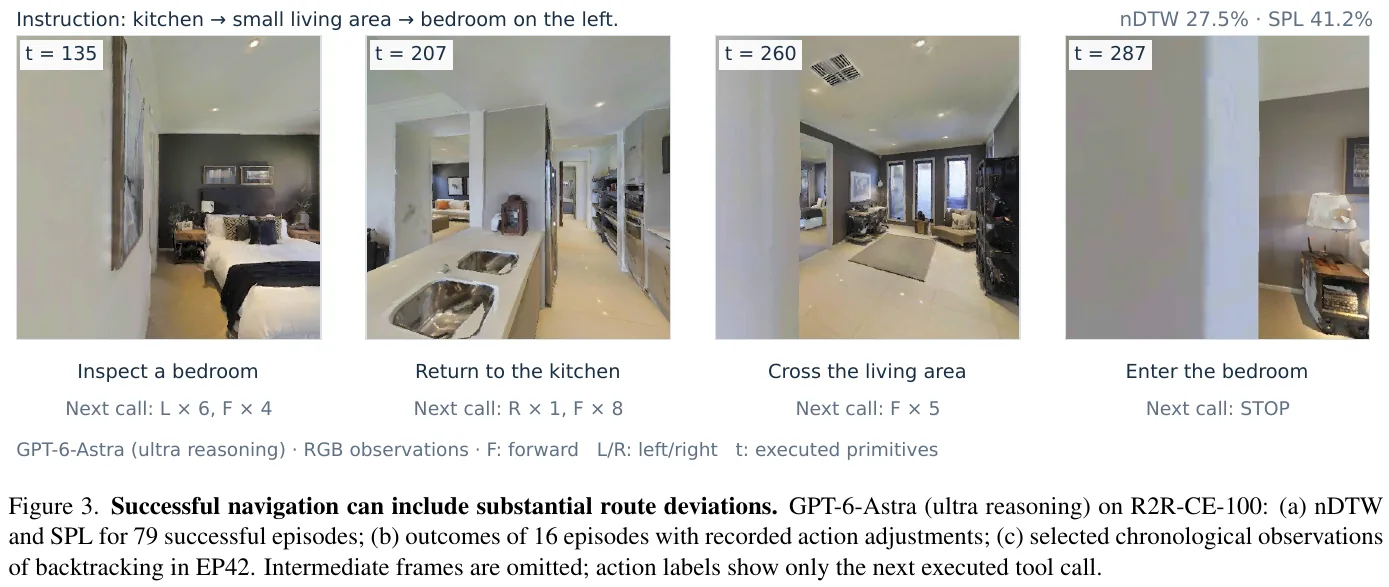
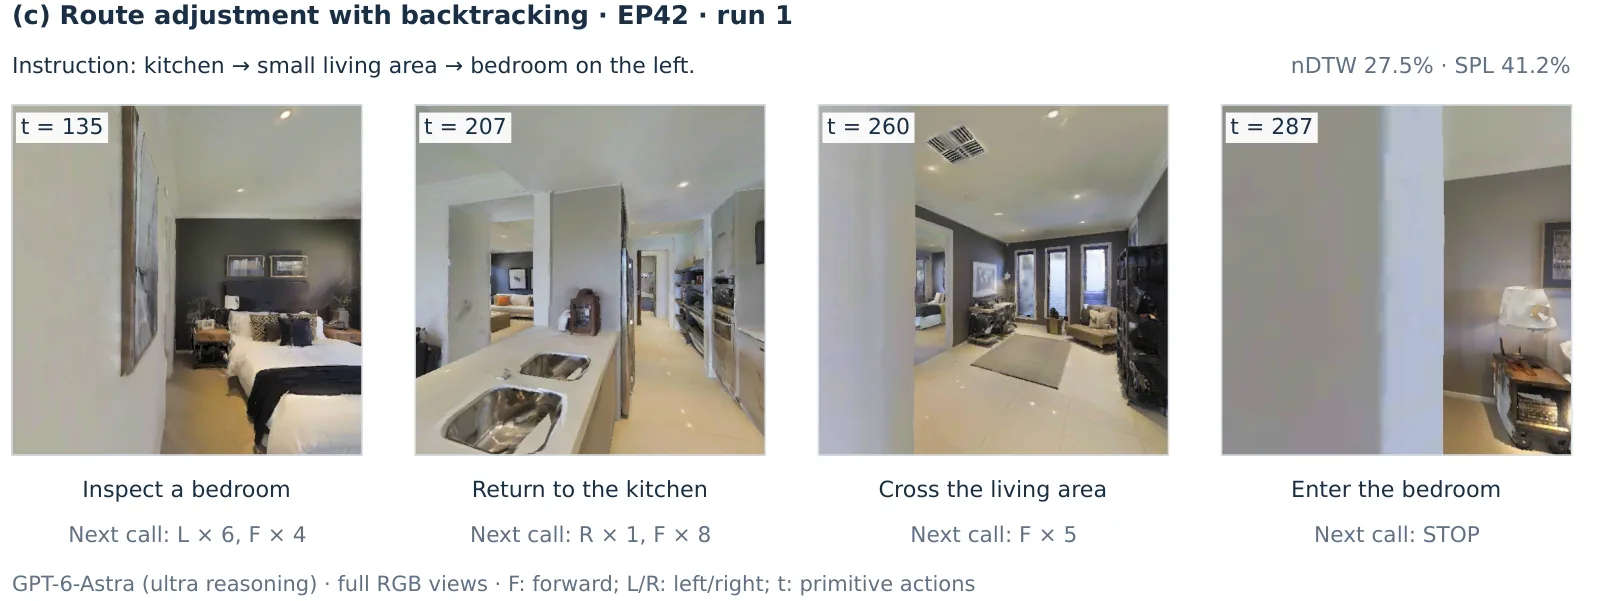
docs(vln-papers): update GPT-6-Astra entry to arXiv v2 (3-run means)
- SR/SPL now 81.3/71.5 (ultra) and 75.7/65.6 (medium); refresh leaderboard rows, notes, refs
- Rewrite results/failure analysis around v2 repeated runs (62 always succeed / 8 always fail / 30 mixed)
- Re-crop v2 figures, add route-following figure; soften v1 "rethink embodied learning" framing
- Add v2 erratum to 2026-09-27 weekly report

diff --git a/_posts/research/2026-01-05-VLN-Papers.md b/_posts/research/2026-01-05-VLN-Papers.md
@@ -30,9 +30,9 @@ excerpt: "本文系统梳理 VLN 指令跟随任务的论文，涵盖 DualVLN、
 
 | 模型 | 年份 | 范式 | 基模 | SR ↑ | SPL ↑ | NE ↓ | OSR ↑ | 开源 |
 |:-----|:----:|:----:|:----:|:----:|:----:|:----:|:----:|:----:|
-| [GPT-6-Astra (单目 · ultra)](#gpt-6-astra) <span class="lb-flag">100 条子集</span> | 2026 | 免训练 | GPT-6-Astra | 79.0 | 69.5 | 3.0 | 82.0 | 否 |
+| [GPT-6-Astra (单目 · ultra)](#gpt-6-astra) <span class="lb-flag">100 条子集</span> | 2026 | 免训练 | GPT-6-Astra | 81.3 | 71.5 | 2.9 | 83.7 | 否 |
 | [Robostral Navigate (单目)](#robostral-navigate) | 2026 | 训练 | Mistral-8B | **77.4** | **74.2** | **3.20** | **81.3** | 否 |
-| [GPT-6-Astra (单目 · medium)](#gpt-6-astra) <span class="lb-flag">100 条子集</span> | 2026 | 免训练 | GPT-6-Astra | 76.0 | 67.9 | 2.7 | 83.0 | 否 |
+| [GPT-6-Astra (单目 · medium)](#gpt-6-astra) <span class="lb-flag">100 条子集</span> | 2026 | 免训练 | GPT-6-Astra | 75.7 | 65.6 | 3.0 | 80.7 | 否 |
 | [Qwen-RobotNav (全景)](#qwen-robotnav) | 2026 | 训练 | Qwen3-VL-8B | 72.1 | 66.6 | 3.53 | 78.5 | 否 |
 | [Talk2Escape + GTA (四视角)](/VLN-Papers-Extended/#talk2escape) <span class="lb-flag">100 条子集</span> | 2026 | 免训练 | Gemini 3.1 Pro | 72.0 | 49.4 | 4.80 | 66.0 | 否 |
 | [ABot-N1 (三相机)](#abot-n1) | 2026 | 训练 | Qwen-3.5-4B + 2B | 70.9 | 67.5 | 3.32 | 75.2 | 否 |
@@ -72,7 +72,7 @@ excerpt: "本文系统梳理 VLN 指令跟随任务的论文，涵盖 DualVLN、
 | [VLN-R1 (单目)](#vln-r1) | 2025 | 训练 | Qwen2-VL-2B | 25.6 | 20.5 | 10.2 | 37.5 | 否 |
 | [OneVLA (单目)](#onevla-a-unified-framework-for-embodied-tasks) | 2026 | 训练 | Qwen2.5-VL-3B | – | – | – | 68.6 | [是](https://github.com/linglingxiansen/OneVLA) |
 
-注：NavFoM 为四视角结果（单视角为 SR 56.2 / SPL 51.2）；DGNav 沿用 ETPNav 的全景 RGB-D 输入；DualVLN 与 StreamVLN 为同口径单视角对比；VLN-Cache 为对 DualVLN 的加速方案，几乎无损（基线 64.3 / 58.5）。 StreamVLN 取 arXiv v2（ICRA 2026 版）的 StreamVLN† 数字（用了 ScaleVLN 子集等额外数据），v1 为 56.9 / 51.9，其他论文作为基线引用的多是 v1 数字。 Qwen-RobotNav 取 arXiv v3：全景行是 8B（底座 Qwen3-VL-8B），单目行是 4B（单目下 4B 的 66.9 高于 8B 的 65.7；8B 单目为 65.7 / 59.6）。灰色的 GPT-6-Astra 与 AgenticNav 三行只在 R2R-CE-100 上评测：这是 Open-Nav 从 val-unseen 中固定抽取的 100 条 episode（覆盖 10 个场景），免训练方法为控制大模型调用成本普遍只报这一子集。1 条 episode 就是 1 个百分点，SR 在 79% 附近时标准误约 4 个点（95% 区间约 71–87），全量 1839 条时约 1 个点；GPT-6-Astra 每档推理强度又只跑一次。这几行按 SR 排在表里、不参与加粗，与全量行的高低只作参考。
+注：NavFoM 为四视角结果（单视角为 SR 56.2 / SPL 51.2）；DGNav 沿用 ETPNav 的全景 RGB-D 输入；DualVLN 与 StreamVLN 为同口径单视角对比；VLN-Cache 为对 DualVLN 的加速方案，几乎无损（基线 64.3 / 58.5）。 StreamVLN 取 arXiv v2（ICRA 2026 版）的 StreamVLN† 数字（用了 ScaleVLN 子集等额外数据），v1 为 56.9 / 51.9，其他论文作为基线引用的多是 v1 数字。 Qwen-RobotNav 取 arXiv v3：全景行是 8B（底座 Qwen3-VL-8B），单目行是 4B（单目下 4B 的 66.9 高于 8B 的 65.7；8B 单目为 65.7 / 59.6）。灰色的 GPT-6-Astra 与 AgenticNav 三行只在 R2R-CE-100 上评测：这是 Open-Nav 从 val-unseen 中固定抽取的 100 条 episode（覆盖 10 个场景），免训练方法为控制大模型调用成本普遍只报这一子集。1 条 episode 就是 1 个百分点，SR 在 81% 附近时标准误约 4 个点（95% 区间约 73–89），全量 1839 条时约 1 个点；GPT-6-Astra 取 arXiv v2 的三次运行均值（v1 为单次 79.0 / 76.0），三次运行的标准差仅 1.5–2.5 个点，只反映运行间波动，不含这 100 个任务本身的抽样误差。这几行按 SR 排在表里、不参与加粗，与全量行的高低只作参考。
 
 ## ② RxR-CE
 
@@ -192,7 +192,7 @@ excerpt: "本文系统梳理 VLN 指令跟随任务的论文，涵盖 DualVLN、
 
 注：VLN-Cache 是套在 DualVLN 上的免训练 Token 缓存层，其余要素随 DualVLN 继承；OmniNav 的 R2R / RxR 评测只走快系统（VLM + 航点回归头），慢系统的前沿探索只用于 OVON，故双系统记 –；Qwen-RobotNav 与上层规划 Agent 的协作只用于 EQA 等长程任务，R2R-CE 成绩来自模型本体；Dual-Anchoring 与 SEDualVLN 的系统 1 均以 StreamVLN 为骨干，继承其滑动窗口 KV 与体素剪枝；HarnessVLN 是表中唯一的免训练方法，其像素 Grounding 指 `ground_target` 工具把子目标落到图像区域后再查深度。ABot-N1 的 30M 预训练样本与 DAgger rollout、Image2Nav 的离散动作输出与在线 DAgger，均依据各自 arXiv 原文补充。
 
-**未计入矩阵的子集成绩**：GPT-6-Astra（ultra 79.0% / medium 76.0%）与 Talk2Escape（+ GTA 72.0% / + NavGPT 64.0%）只在 R2R-CE 的 100 条子集上评测。100 条时 SR 72% 的标准误约 ±4.5 个点（95% 区间约 ±9 个点），68% 的分档线落在误差范围内，又与全量 val-unseen 口径不同，因此只在排行榜里灰显保留，不参与矩阵与下方统计。两者仍有参考价值：GPT-6-Astra 单目 RGB、输出原语离散动作、不做任何导航微调也不调用建图 / 感知 / 规划工具，十个要素一个都没有，说明足够强的通用基础模型可能已覆盖矩阵里不少要素的作用；Talk2Escape 免训练，靠运行时向掌握目标方位与距离的 Oracle 求助纠错，把基座 GTA 从 48.8% 抬到 72.0%，但用到了其他方法没有的目标真值信息。
+**未计入矩阵的子集成绩**：GPT-6-Astra（ultra 81.3% / medium 75.7%，v2 三次运行均值）与 Talk2Escape（+ GTA 72.0% / + NavGPT 64.0%）只在 R2R-CE 的 100 条子集上评测。100 条时 SR 72% 的标准误约 ±4.5 个点（95% 区间约 ±9 个点），68% 的分档线落在误差范围内，又与全量 val-unseen 口径不同，因此只在排行榜里灰显保留，不参与矩阵与下方统计。两者仍有参考价值：GPT-6-Astra 单目 RGB、输出原语离散动作、不做任何导航微调也不调用建图 / 感知 / 规划工具，十个要素一个都没有，说明在这个接口和任务集上，通用基础模型不靠矩阵里的要素也能拿到高 SR。这不等于那些要素没有价值：论文没有逐项拆除要素做对照，闭源模型的训练数据也未知；Talk2Escape 免训练，靠运行时向掌握目标方位与距离的 Oracle 求助纠错，把基座 GTA 从 48.8% 抬到 72.0%，但用到了其他方法没有的目标真值信息。
 
 ## 统计研判
 
@@ -229,7 +229,7 @@ excerpt: "本文系统梳理 VLN 指令跟随任务的论文，涵盖 DualVLN、
    - 但 SR 最高的 Robostral（77.4%）只用单目 RGB，LightNav-0 单目也有 68.5%——视野上的缺口可以用更好的训练与输出接口补回来。
 5. **快慢双系统与 Agentic 不决定 SR 档位**：
    - 快慢双系统并不偏向高分档：第一梯队 3/7（43%），第二梯队 7/15（47%）。它更多服务于部署时延，而不是 SR 本身：ABot-N1 慢系统异步决策、快系统 10Hz 控制；GroundingVLN 只在约 33% 的决策步调用 VLM，其余交给 A\* 规划器。
-   - Agentic 只有 3/22，且都在第二梯队。HarnessVLN 用 GPT-5.5 加一层"派发前校验"的 Harness，以训练无关方式跨过 60%（SR 60.8%），但 SPL 只有 43.5，比同一 SR 段的训练式模型（NavFoM 55.3、GA-VLN 55.2、JanusVLN 56.8）低 11–13 个点。矩阵外同为训练无关的 GPT-6-Astra 只有"看"和"动"两个工具，在 R2R-CE-100 上的 SPL 却有 69.5——训练无关路线的路径效率短板，看来更多取决于基座模型，而不是外围工具链的多少（两者基座与评测集都不同，只作参考）。
+   - Agentic 只有 3/22，且都在第二梯队。HarnessVLN 用 GPT-5.5 加一层"派发前校验"的 Harness，以训练无关方式跨过 60%（SR 60.8%），但 SPL 只有 43.5，比同一 SR 段的训练式模型（NavFoM 55.3、GA-VLN 55.2、JanusVLN 56.8）低 11–13 个点。矩阵外同为训练无关的 GPT-6-Astra 只有"看"和"动"两个工具，在 R2R-CE-100 上的 SPL 却有 71.5（ultra 三次均值；medium 为 65.6）——训练无关路线的路径效率短板，看来更多取决于基座模型，而不是外围工具链的多少（两者基座与评测集都不同，只作参考）。
 6. **DAgger 与上下文压缩已成为入场标配，不再拉开档位**：
    - DAgger / 纠偏数据（50%）与上下文压缩（68%）在两档中都很普遍，第二梯队的 DAgger 采纳率（53%）甚至高于第一梯队（43%）。
    - 上下文压缩的具体形式正在分化：JanusVLN 的初始窗口加滑动窗口 KV、GA-VLN 的 BEV 网格池化（每步约 4000 → 514 Token）、TAMP-Nav 的关键帧锚点加定长 STI Token、LightNav-0 的慢快历史压缩、NavFoM 按遗忘曲线采样历史帧，以及 HarnessVLN 的有界工作记忆加图检索 top-K。
@@ -237,7 +237,7 @@ excerpt: "本文系统梳理 VLN 指令跟随任务的论文，涵盖 DualVLN、
    - 开源率第一梯队反而低于第二梯队（3/7 vs 8/15）：Robostral (77.4%)、Qwen-RobotNav (72.1%)、ABot-N1 (70.9%)、GroundingVLN (69.9%) 截至 2026 年 9 月都没有公开模型代码或权重，ABot-N1 只开源了评测基准。
    - 想在开源代码上复现或做对比，目前最高的起点是 Image2Nav (70.3%)、OmniNav (69.5%) 与 LightNav-0 (68.5%)。
 
-**小结**：从这 22 个条目看，训练式模型冲进 68%+ 的共性是"可度量的输出接口（像素目标 / 连续航点）+ 基于几何量的 RL 后训练"，数据规模与多相机是放大器；快慢双系统、DAgger 与上下文压缩更像是工程上的入场条件。矩阵外的 GPT-6-Astra 在不采用任何上述要素的情况下，在 R2R-CE-100 子集上拿到了最高的 SR——全量 val-unseen 上的同条件结果出来之前，它更适合被读作"通用基础模型的导航能力已逼近专用训练"的信号，而不是新的榜首。
+**小结**：从这 22 个条目看，训练式模型冲进 68%+ 的共性是"可度量的输出接口（像素目标 / 连续航点）+ 基于几何量的 RL 后训练"，数据规模与多相机是放大器；快慢双系统、DAgger 与上下文压缩更像是工程上的入场条件。矩阵外的 GPT-6-Astra 在不采用任何上述要素的情况下，在 R2R-CE-100 子集上拿到了最高的 SR——全量 val-unseen 上的同条件结果出来之前，它更适合被读作"固定接口与任务集下，通用基础模型已具备有竞争力的导航能力"的信号，而不是新的榜首，更不能据此推断通用模型已经解决导航：v2 自己的重复评测里，六次评测仍有 8 个任务始终失败，ultra 每次运行仍有 16–21 个任务失败。
 
 ---
 
@@ -6485,17 +6485,19 @@ $$R_y = \alpha_a R_{act} + \alpha_t R_{task} + \alpha_g R_{goal} + \lambda_g R_{
 ## 49. GPT-6-Astra (2026) {#gpt-6-astra}
 ———通用基础模型只凭单目 RGB 与原语动作，零样本跑通连续环境视觉语言导航
 
-📄 **Paper**: [arXiv:2609.29861](https://arxiv.org/abs/2609.29861) · [Project Page](https://daiguangzhao.github.io/gpt-6-astra-for-vln/)
+📄 **Paper**: [arXiv:2609.29861v2](https://arxiv.org/abs/2609.29861v2) · [Project Page](https://daiguangzhao.github.io/gpt-6-astra-for-vln/)
+
+> 本节依据 v2（2026-09-25）整理。v2 距 v1（2026-09-24）只隔一天，却把每档推理强度的单次运行改成三次运行取均值，并补充了跨运行的一致性分析；v1 的 79.0% / 76.0% 是单次结果，现已被 81.3% / 75.7% 取代。
 
 ---
 
 ### 精华
 
 - 把"看"也做成模型自己决定何时调用的工具——`observe()` 不耗步数，`step()` 执行完不回传图像——接口只剩"看"和"动"两个动词，测出来的就是基础模型本身的导航能力，而不是外围模块的能力。
-- 面对足够强的基础模型，航点预测器、全景、深度、预建图这些"脚手架"可能从助力变成上限：单目 RGB 加 0.25 m / 15° 的原语动作，在 R2R-CE-100 上拿到 79.0% SR、69.5% SPL，高于 Table 1 中所有零样本与训练式方法的报告值（评测子集不同，需谨慎看待）。
-- 只看 SR 会漏掉三类问题：OSR 与 SR 之差（3 个 episode 进过目标圈却停错位置）、低 nDTW 的成功（EP42 绕了约 2.4 倍路程才到达）、像素不变的"空走"（EP176 连走 8 步画面没变），分别对应停止判断、路线遵循和执行确认。
-- 推理强度从 medium 提到 ultra，SR 的 +3 个点是 9 个任务翻盘、6 个任务翻车相抵后的净值，另有 15 个任务两档都失败——多想一会儿改变的是个别 episode 的结局，没有系统性修好执行与终点验证。
-- 对 VLN 研究的启发：导航专用的训练、记忆与动作控制，应该用"修好了基础模型哪一类剩余失败"来证明自身价值，而不是重复基础模型已有的能力。
+- 拿掉航点预测器、全景、深度、预建图这些"脚手架"之后，单目 RGB 加 0.25 m / 15° 的原语动作，在 R2R-CE-100 上三次运行均值仍达到 SR 81.3±2.5%、SPL 71.5±1.7%（ultra），SR 高于 Table 1 中所有零样本与训练式方法的报告值（评测子集不同，需谨慎看待）。这只是同一接口、固定任务集下的结果，论文据此提出的是"通用能力与导航专用能力如何组合"，并没有证明脚手架多余。
+- 只看 SR 会漏掉三类问题：OSR 与 SR 之差（每次运行有 1–3 个 episode 进过目标圈却停错位置）、低 nDTW 的成功（EP42 绕了约 2.4 倍路程才到达；三次运行的成功轨迹里约 9% 的 nDTW 低于 50%）、像素不变的"空走"（EP176 连走 8 步画面没变），分别对应停止判断、路线遵循和执行确认。
+- 多次运行把"任务本身难"和"运行间抖动"分开了：medium、ultra 各跑三次，100 个任务里 62 个六次全成功、8 个六次全失败、30 个时好时坏。ultra 的 SR 均值比 medium 高 5.7 个点，但 medium 全败的 14 个任务里只有 6 个在 ultra 下至少成功一次，另有 3 个 medium 全成功的任务在 ultra 下失败过一次——多想一会儿改变的是个别任务的结局，没有系统性修好执行与终点验证。
+- 对 VLN 研究的启发：论文（v2）主张研究哪些导航能力通用模型可以直接提供、哪些地方需要导航专用学习来补，并提出空间表示、导航经验、习得的控制技能三个方向，但明确说这些方向只是动机，并未被评测。笔者的推断：导航专用组件的价值，宜用"修好了基础模型哪一类可测量的剩余失败"（路线偏离、无效动作、错误停止）来衡量。
 
 ---
 
@@ -6568,7 +6570,7 @@ graph TD
 
 - **数据**：R2R-CE-100，即 Open-Nav 引入的 100 个 val-unseen episode，覆盖 10 个场景，与 EvoNav、Open-Nav、SmartWay 等零样本工作采用同一协议；Table 1 中训练式方法的数字则来自全量 val-unseen
 - **预算**：每个 episode 最多 500 个原语动作、2,400 s，调用 STOP 或任一预算耗尽即结束
-- **运行次数**：每档推理强度、每个 episode 只跑一次
+- **运行次数**：每档推理强度各跑三次，Table 1 与 Table 2 报均值 ± 样本标准差；三次运行被视为对同一批任务的重复观测（v1 为单次运行）
 - **成功判定**：显式调用 STOP，且终点到目标的测地距离小于 3 m
 
 **评测指标**
@@ -6590,14 +6592,15 @@ $$\text{nDTW}(R, Q) = \exp\left(-\frac{\mathrm{DTW}(R, Q)}{\lvert R \rvert \cdot
 
 其中 $d_{th}$ 取成功半径 3 m。
 
-> **举个例子**：ultra 设置下 100 个 episode 里，79 个成功，3 个轨迹曾进入 3 m 目标圈但最终停在圈外，18 个从未进过目标圈。于是 SR = 79%，OSR = (79 + 3) / 100 = 82%，正好对上 Table 1 的 82.0——OSR 与 SR 之间这 3 个点，就是"路过了却没停对"。再看成功的 EP42：终点误差只有 0.7 m，照样记为成功；但 SPL 41.2% 意味着实际路程约为最短路径的 1 / 0.412 ≈ 2.4 倍，nDTW 27.5% 说明轨迹和参考路线几乎不贴合——它先走进了卧室，发现顺序不对，又折回厨房重新出发。
+> **举个例子**：ultra 第 1 次运行的 100 个 episode 里，79 个成功，3 个轨迹曾进入 3 m 目标圈但最终停在圈外，18 个从未进过目标圈。于是 SR = 79%，OSR = (79 + 3) / 100 = 82%——OSR 与 SR 之间这 3 个点，就是"路过了却没停对"。三次运行分别是 79 / 81 / 84 个成功、3 / 3 / 1 个进圈失败，均值因此是 SR 81.3、OSR 83.7，对上 Table 1。再看成功的 EP42（第 1 次运行）：终点误差只有 0.7 m，照样记为成功；但 SPL 41.2% 意味着实际路程约为最短路径的 1 / 0.412 ≈ 2.4 倍，nDTW 27.5% 说明轨迹和参考路线几乎不贴合——它先走进了卧室，发现顺序不对，又折回厨房重新出发。
 
 **行为分析框架**
 
-聚合指标之外，作者逐条检查 ultra 设置的交互日志（工具调用、实际执行的动作与对应的 RGB 画面），按两组问题组织分析：
+聚合指标之外，作者逐条检查三次 ultra 运行的交互日志（工具调用、实际执行的动作与对应的 RGB 画面），按三组问题组织分析：
 
 - **能力侧**：如何落地空间指代（4.1）、到达目标是否等于按路线走（4.2）、如何调整动作（4.3）
-- **失败侧**：路线遵循在哪里断掉（5.1）、能否从执行困难中恢复（5.2）、能否在正确位置停下（5.3）、提高推理强度能否解决失败（5.4）
+- **失败侧**：路线遵循在哪里断掉（5.1）、能否从执行困难中恢复（5.2）、能否在正确位置停下（5.3）
+- **稳定性侧**：同一任务在六次评测（medium × 3 + ultra × 3）里成功几次，区分"持续失败"与"运行间抖动"，并回答提高推理强度能否解决失败（5.4）
 
 作者也强调，日志只能支撑对"可观察行为"的分析，既不能确认单个语义判断是否正确，也看不到模型的内部推理。
 
@@ -6605,14 +6608,14 @@ $$\text{nDTW}(R, Q) = \exp\left(-\frac{\mathrm{DTW}(R, Q)}{\lvert R \rvert \cdot
 
 ### 3. 核心结果/发现
 
-**主结果：单目 RGB、零样本，SR 与 SPL 均为论文 Table 1 中最高**
+**主结果：单目 RGB、零样本，ultra 的 SR、SPL、OSR、NE 均为论文 Table 1 中最优**
 
 <div align="center">
   <img src="/images/vln/GPT-6-Astra-sr-comparison.webp" width="100%" loading="lazy" decoding="async" style="aspect-ratio:1394/625" />
-<figcaption>R2R-CE 上的 SR 对比：左为零样本方法，ultra 比最佳零样本 SpatialAnt（66.0%，全景 + 预探索建图）高 13.0 个点；右为训练式方法（全量 val-unseen），比 Qwen-RobotNav（72.1%，全景 + 1560 万混合来源样本）高 6.9 个点。评测子集与设置不一，作者注明比较并不严格公平</figcaption>
+<figcaption>R2R-CE 上的 SR 对比（v2，三次运行均值）：左为零样本方法，ultra（81.3%）比最佳零样本 SpatialAnt（66.0%，全景 + 预探索建图）高 15.3 个点；右为训练式方法（全量 val-unseen），比 Qwen-RobotNav（72.1%，全景 + 1560 万混合来源样本）高 9.2 个点；蓝柱为 medium（75.7%）。评测子集与设置不一，作者注明比较并不严格公平</figcaption>
 </div>
 
-从 Table 1 摘取的代表性行（NE 单位为米，其余为百分比）：
+从 Table 1 摘取的代表性行（NE 单位为米，其余为百分比；GPT-6-Astra 两行为三次运行的均值 ± 样本标准差）：
 
 | 方法 | 类型 | 评测集 | 视角 | NE↓ | OSR↑ | SR↑ | SPL↑ |
 |---|---|---|---|---|---|---|---|
@@ -6624,70 +6627,77 @@ $$\text{nDTW}(R, Q) = \exp\left(-\frac{\mathrm{DTW}(R, Q)}{\lvert R \rvert \cdot
 | Qwen-RobotNav-8B | 训练式 | Full | 单目 | 4.4 | 72.7 | 65.7 | 59.6 |
 | OmniNav | 训练式 | Full | 全景 | 3.7 | 74.6 | 69.5 | 66.1 |
 | Qwen-RobotNav-8B | 训练式 | Full | 全景 | 3.5 | 78.5 | 72.1 | 66.6 |
-| **GPT-6-Astra（medium）** | 零样本 | R2R-CE-100 | 单目 | **2.7** | **83.0** | 76.0 | 67.9 |
-| **GPT-6-Astra（ultra）** | 零样本 | R2R-CE-100 | 单目 | 3.0 | 82.0 | **79.0** | **69.5** |
+| **GPT-6-Astra（medium）** | 零样本 | R2R-CE-100 | 单目 | 3.0±0.4 | 80.7±2.1 | 75.7±1.5 | 65.6±2.1 |
+| **GPT-6-Astra（ultra）** | 零样本 | R2R-CE-100 | 单目 | **2.9±0.2** | **83.7±1.5** | **81.3±2.5** | **71.5±1.7** |
 
 - 在同为单目 RGB 的零样本方法中，此前最好的 GC-VLN 只有 33.6% SR / 16.3% SPL，GPT-6-Astra 的 SR 高出一倍以上
-- NE 2.7–3.0 m 是 Table 1 中最低，比其中最强的训练式模型 Qwen-RobotNav-8B（全景，3.5 m）还低；SPL 69.5 同样高于 Table 1 中所有训练式方法。但 Table 1 未收录 Robostral Navigate：它在全量 val-unseen 上以单目 RGB 取得 77.4% SR、74.2 SPL，SPL 高于 GPT-6-Astra 的 69.5（NE 3.20 m 则不如 GPT-6-Astra 的 2.7–3.0 m）
-- ultra 相比 medium 的 SR 与 SPL 更高，但 OSR 略低、NE 略高
+- ultra 的 NE 2.9 m 是 Table 1 中最低，比其中最强的训练式模型 Qwen-RobotNav-8B（全景，3.5 m）还低；SPL 方面只有 ultra（71.5）高于 Table 1 中所有训练式方法，medium 的 65.6 低于 Qwen-RobotNav-8B 全景（66.6）和 OmniNav（66.1）。Table 1 未收录 Robostral Navigate：它在全量 val-unseen 上以单目 RGB 取得 77.4% SR、74.2 SPL，SR 高于 medium 的 75.7、SPL 高于 ultra 的 71.5（NE 3.20 m 则不如 ultra 的 2.9 m）
+- ultra 相比 medium：SR +5.7、SPL +5.9（论文按取整前的数值计算），OSR 83.7 对 80.7，nDTW 74.0 对 70.5，NE 2.9 对 3.0 m。两档的标准差在 1.5–2.5 个点之间，论文将其定位为对两种配置的描述性比较
 - 作者反复提醒：训练式方法用全量 val-unseen，SpatialAnt 用作者自采样的 episode 并借助场景重建与模拟器深度，HarnessVLN 未注明子集，这些对比只说明竞争力，不构成同条件下的优劣结论
 
-**空间指代：序数式比地标相对式更稳**
+**空间指代：序数式比地标相对式更稳（但任务数少、波动大）**
 
 | 指令子集 | N | SR | SPL | nDTW |
 |---|---|---|---|---|
-| R2R-CE-100（全部） | 100 | 79.0 | 69.5 | 73.3 |
-| 序数式选择（"第二个房间""最右边的门"） | 14 | 85.7 | 68.6 | 73.4 |
-| 地标相对式选择（"在……左边""在……之间""在……后面"） | 13 | 61.5 | 59.6 | 71.8 |
+| R2R-CE-100（全部） | 100 | 81.3±2.5 | 71.5±1.7 | 74.0±1.2 |
+| 序数式选择（"第二个房间""最右边的门"） | 14 | 95.2±8.2 | 77.3±8.2 | 75.9±3.2 |
+| 地标相对式选择（"在……左边""在……之间""在……后面"） | 13 | 74.4±11.8 | 69.0±8.1 | 73.9±2.0 |
 
-EP218 中模型离开卧室后，先在交互日志里把一间浴室认作"左手第一个房间"，再走向下一个门口；EP244 中它选中了"白色双开门左边"的门洞，两例都成功（NE 分别为 2.6 m、1.8 m）。作者注明这里是整条任务的成绩，不是单个空间关系判断的准确率，且两个子集的场景布局与难度也不同。
+（均值 ± 三次运行的样本标准差，ultra 设置。）EP218 中模型离开卧室后，先在交互日志里把一间浴室认作"左手第一个房间"，再走向下一个门口；EP244 中它选中了"白色双开门左边"的门洞，两例在六次评测（两档推理强度 × 三次）里全部成功，第 1 次 ultra 运行的 NE 分别为 2.6 m、1.8 m。作者注明这里是整条任务的成绩，不是单个空间关系判断的准确率；两个子集可能重叠、场景布局与难度也不同，且只有 14 和 13 个任务，标准差本身就有 8–12 个点，差距不宜直接归因于"空间关系难度"。
 
 **到达 ≠ 按路线走**
 
-- 79 个成功 episode 的 nDTW 中位数为 90.4%，多数紧贴参考路线；但有 8 个（10.1%）低于 50%。EP116 终点误差 0.1 m、nDTW 89.2%，是贴线的典型；EP42 则是大幅绕路后的成功
-- 日志中有 16 个 episode 记录到明显的路线偏离或通行困难后的动作调整：10 个成功、6 个失败，成功者的 nDTW 与 SPL 中位数仅 44.3% 与 45.5%。这只统计了有记录的调整，不能说明调整本身对成败的因果作用
+- 三次 ultra 运行共 244 条成功轨迹（79 + 81 + 84，是对同一批任务的重复观测，不是 244 个不同任务），nDTW 中位数在 90.3%–91.0% 之间，多数紧贴参考路线；但每次仍有 8、7、7 条低于 50%，占成功轨迹的 9.0±1.0%。EP116 终点误差 0.1 m、nDTW 89.2%，是贴线的典型；EP42 则是大幅绕路后的成功
+- 日志中每次运行有 16、16、12 条轨迹记录到明显的路线偏离或通行困难后的动作调整，其中 10、6、7 条成功；这些成功轨迹的 SPL 中位数只有 45.5%、30.3%、35.6%，nDTW 中位数在 8.9%–44.3%。这只统计了有记录的调整，且分数覆盖包含折返在内的完整轨迹，不能说明调整本身对成败的因果作用
 
 <div align="center">
-  <img src="/images/vln/GPT-6-Astra-EP42-backtracking.webp" width="100%" loading="lazy" decoding="async" style="aspect-ratio:1389/587" />
+  <img src="/images/vln/GPT-6-Astra-route-following.webp" width="100%" loading="lazy" decoding="async" style="aspect-ratio:1598/557" />
+<figcaption>三次 ultra 运行的路线贴合度：(a) 成功轨迹的 nDTW–SPL 散点，图例括号内为各次运行的成功数 79 / 81 / 84；(b) 记录到路线或动作调整的轨迹数及其成败，右侧为成功者的 SPL 中位数</figcaption>
+</div>
+
+<div align="center">
+  <img src="/images/vln/GPT-6-Astra-EP42-backtracking.webp" width="100%" loading="lazy" decoding="async" style="aspect-ratio:1598/601" />
 <figcaption>EP42 的折返过程（指令：厨房 → 小客厅 → 左手卧室）：t=135 模型发现自己进了卧室、与"厨房—客厅—卧室"的顺序不符，于是左转后折回厨房，穿过客厅，最终进入正确的卧室并 STOP；成功，但 nDTW 仅 27.5%、SPL 41.2%。t 为已执行的原语动作数</figcaption>
 </div>
 
 **失败模式：路线、执行、停止三类**
 
 <div align="center">
-  <img src="/images/vln/GPT-6-Astra-failures.webp" width="90%" loading="lazy" decoding="async" style="aspect-ratio:1398/1008" />
-<figcaption>执行与终点验证失败：(a) ultra 设置下 79 个成功、3 个进过目标圈但停错、18 个从未进圈；(b) EP176 连续 8 次前进后 RGB 画面完全不变，最终耗尽 500 步预算、NE 35.4 m；(c) EP1133 在两档推理强度下都停在拱门附近而失败，ultra 的 NE 更小（5.6 m 对 7.5 m）但仍超出 3 m</figcaption>
+  <img src="/images/vln/GPT-6-Astra-failures.webp" width="90%" loading="lazy" decoding="async" style="aspect-ratio:1598/1234" />
+<figcaption>重复评测区分持续失败与运行波动：(a) 三次 ultra 运行的结局（成功 79 / 81 / 84，进过目标圈但停错 3 / 3 / 1，从未进圈 18 / 16 / 15）；(b) 同一批 100 个任务在 medium 与 ultra 下各自的成功次数分布，62 个六次全成功、8 个六次全失败；(c) EP176 连续 8 次前进后 RGB 画面完全不变，最终耗尽 500 步预算、NE 35.4 m；(d) EP1133 在六次评测中全部失败，停在拱门附近，NE 在 5.6–12.3 m 间波动，始终超出 3 m</figcaption>
 </div>
 
-- **路线遵循断裂**：ultra 的 21 个失败中，13 个终点离目标至少 5 m，其中 7 个超过 10 m。EP513 的指令提到壁炉客厅、两张白沙发和相邻餐厅入口，模型最后看到壁炉和浅色座椅就宣布到达，NE 却有 14.5 m——局部地标对上了，不代表到了指令说的那个地方，而日志也定位不到第一处走错的位置
-- **执行困难与恢复**：4 个 episode 里共有 5 批纯前进动作，执行前后的 RGB 逐像素相同（没有可见位移，但不等于测到了碰撞），其中 3 个 episode 最终仍然成功；EP70 在窄门附近经过转向与前进后进入下一个房间并成功；EP176 则在 8 次前进画面不变之后一直耗到 500 步预算，终点距目标 35.4 m。发出动作不等于真的动了，也不等于有效恢复
-- **停止判断**：99 个 episode 由模型主动 STOP，只有 EP176 触到动作上限；3 个失败 episode 的 OSR 为 1，即曾进入目标圈又离开。EP705 中模型报告在门口旁看到灭火器后停下，最终 NE 为 12.3 m
+- **路线遵循断裂**：每次 ultra 运行里，有 10–13 个失败的终点离目标至少 5 m，其中 5–8 个超过 10 m，说明剩下的错误多是大幅偏离，而不是差一点。EP513 的指令提到壁炉客厅、两张白沙发和相邻餐厅入口，第 1 次运行里模型最后看到壁炉和浅色座椅就宣布到达，NE 却有 14.5 m；另外两次 ultra 运行里它成功了——局部地标对上了，不代表到了指令说的那个地方，这是一次执行的失败，而不是该任务做不到，日志也定位不到第一处走错的位置
+- **执行困难与恢复**：在 1,103 个两端都有可读观测的动作批次里，三次 ultra 运行共有 11 批纯前进动作、分布在 10 条轨迹中，执行前后的 RGB 逐像素相同（没有可见位移，但不等于测到了碰撞），其中 6 条轨迹最终仍然成功；EP70 在窄门附近经过转向与前进后进入下一个房间并成功；EP176 在 8 次前进画面不变之后一直耗到 500 步预算，终点距目标 35.4 m，它在 ultra 的三次运行里都失败，却在 medium 的两次运行里成功，可见问题是执行与恢复不稳定，而不是任务走不通。发出动作不等于真的动了，也不等于有效恢复
+- **停止判断**：每次 ultra 运行有 96–99 条轨迹由模型主动 STOP，每次都有 1–3 条失败轨迹曾进入成功半径又离开。EP705 第 1 次运行中模型报告在门口旁看到灭火器后停下，最终 NE 为 12.3 m，其余两次 ultra 运行里同一任务成功
 
 **提高推理强度能解决多少失败？**
 
-把两档推理强度在同一批 100 个任务上的结局交叉起来（由正文数字推出：medium 失败 24 个，其中 9 个在 ultra 下成功、15 个仍失败；另有 6 个 medium 成功的任务在 ultra 下失败）：
+把 medium 与 ultra 各三次运行在同一批 100 个任务上的成功次数交叉起来（论文 Figure 4b）：
 
-| | ultra 成功 | ultra 失败 | 合计 |
-|---|---|---|---|
-| **medium 成功** | 70 | 6 | 76 |
-| **medium 失败** | 9 | 15 | 24 |
-| **合计** | 79 | 21 | 100 |
+| ultra 成功次数 ＼ medium 成功次数 | 0 | 1 | 2 | 3 |
+|---|---|---|---|---|
+| **3** | 0 | 2 | 7 | **62** |
+| **2** | 2 | 4 | 3 | 3 |
+| **1** | 4 | 3 | 0 | 0 |
+| **0** | **8** | 1 | 1 | 0 |
 
-> **怎么读这张表**：SR 从 76 升到 79，不是"ultra 多修好 3 个任务"，而是 9 个翻盘减去 6 个翻车。只看这 15 个结局改变的任务，9 对 6 按精确二项检验（McNemar）的双侧 p 约为 0.61（笔者据表中计数计算，非论文报告），远谈不上显著。
+> **怎么读这张表**：右上角 62 个任务六次评测全部成功，左下角 8 个任务六次全部失败，其余 30 个任务时好时坏。这比"两档各跑一次"的交叉表多出一层信息：单次运行里的"翻盘"或"翻车"，有一部分只是同一个任务在不同次运行里的正常波动。
 
-- 15 个两档都失败的任务里，ultra 的 NE 更低的有 8 个、更高的有 7 个，没有一致的改善方向；EP1133 两档都在拱门附近停下，NE 从 7.5 m 降到 5.6 m，仍未进入 3 m 圈
-- 两档运行所用的 Codex 版本也不同（medium 为 0.155.1，ultra 为 0.155.0），因此这组对比无法把差异单独归因于推理强度
+- medium 三次全败的 14 个任务（第一列）中，6 个在 ultra 下至少成功一次，8 个仍然全败；反过来，medium 三次全成功的任务里，有 3 个在 ultra 的某一次运行里失败。更高的推理强度并不保证可靠完成，论文也明确说这些观察不能说明每个持续失败的原因
+- EP1133 是那 8 个六次全败的任务之一：medium 的终点 NE 在 7.5–11.4 m，ultra 在 5.6–12.3 m，某一次 NE 更小不能当作稳定改善
 
 **作者对后续 VLN 研究的建议**
 
-- 通用模型经一个极简的"观察—动作"接口就能完成有竞争力的导航，说明这未必需要单独训练导航策略，但何时这条路线优于专门训练，还需在观测、动作预算与任务集都对齐的条件下比较
-- 后续方法应优先补三块短板：地标重复出现时守住路线约束、识别无效运动并恢复、确认终点确实满足指令；评估时应把参考路径贴合度、执行反馈与停止结局和 SR 一起报告
+- 通用模型经一个极简的"观察—动作"接口就能完成有竞争力的导航，值得研究的是：哪些能力通用模型可以直接提供，哪些地方需要导航专用学习来补；论文称如何在通用模型与专用方法之间分工，仍是一个经验问题
+- 可能的补法有三类：空间表示（把当前观测与走过的地方、已完成的指令步骤对上，帮助进度跟踪与终点验证）、导航经验（推理时利用轨迹或示范，帮助选路与纠错）、习得的控制技能（高效的移动与恢复例程）；这些补充都应保留模型自行观察、自行调整路线的灵活性。论文自己强调，这些方向只是动机，并未被评测
+- 后续评测应固定模型、任务、观测、原语动作与预算，披露任何额外信息，做组件消融与多次运行，并把任务成功、路径效率、参考路径贴合度与进度跟踪、恢复、停止行为一起报告，同时给出推理成本与延迟，再到更多环境、指令长度和布局上检验迁移
 
 ---
 
 ### 4. 局限性
 
-只在 R2R-CE-100（100 个 episode、10 个场景）上每档跑一次，与全量 val-unseen 上的训练式方法、Author-sampled 的 SpatialAnt 并非同条件对比；按二项分布粗算，100 个 episode 上 79% SR 的标准误约 4.1 个百分点，领先 Qwen-RobotNav 的 6.9 个点还不到两个标准误。GPT-6-Astra 是闭源模型，无法排除其训练数据含导航数据，推理成本与延迟目前也制约实际部署；作者计划补充多次运行的均值与标准差，并扩展到 RxR-CE、NavRAG-CE。
+只在 R2R-CE-100（100 个 episode、10 个场景）上评测，每档三次运行；v2 补上的多次运行说明了同一任务集上的可重复性，但不说明泛化。它与全量 val-unseen 上的训练式方法、Author-sampled 的 SpatialAnt 仍非同条件对比；三次运行的标准差（ultra 为 2.5 个点）只反映运行间波动，这 100 个任务本身的抽样误差还在：笔者按二项分布粗算，81.3% SR 的标准误约 3.9 个百分点，领先 Qwen-RobotNav 的 9.2 个点约为 2.4 倍标准误，比 v1 的情形宽裕，但仍不是同集结论。GPT-6-Astra 是闭源模型，无法排除其训练数据含导航数据——论文明确说，"零样本"只表示作者没有为导航微调，不表示模型没见过导航数据；推理成本与延迟目前也制约实际部署。作者计划扩展到 RxR-CE、NavRAG-CE 等数据集与更多环境、指令。
 
 ---
 
@@ -7651,7 +7661,7 @@ graph TD
 46. **Uncertainty-Aware Gaussian Map for VLN** (2026). 三类感知不确定性 × Semantic Gaussian Map，赋予 VLN 智能体可靠决策能力. arXiv: [2607.13500](https://arxiv.org/abs/2607.13500) · ICLR 2026 · Code（待发布）: [Gaozzzz/Uncertainty-Aware-VLN](https://github.com/Gaozzzz/Uncertainty-Aware-VLN)
 47. **HarnessVLN** (2026). 一套 Agent Harness，把"指令跟随"和"找物体"两类导航压进同一个工具调用协议. arXiv: [2609.15195](https://arxiv.org/abs/2609.15195)
 48. **GroundingVLN** (2026). 把视觉 grounding 做成"想"与"走"之间的共享接口. arXiv: [2609.18581](https://arxiv.org/abs/2609.18581)
-49. **GPT-6-Astra** (2026). 通用基础模型只凭单目 RGB 与原语动作，零样本跑通连续环境视觉语言导航. arXiv: [2609.29861](https://arxiv.org/abs/2609.29861)
+49. **GPT-6-Astra** (2026). 通用基础模型只凭单目 RGB 与原语动作，零样本跑通连续环境视觉语言导航. arXiv: [2609.29861v2](https://arxiv.org/abs/2609.29861v2)
 50. **BudVLN** (2026). Nipping the Drift in the Bud: Retrospective Rectification for Robust Vision-Language Navigation. arXiv: [2602.06356](https://arxiv.org/abs/2602.06356)
 51. **Route2Step** (2026). 解耦语义进度与局部执行，通过显式步级接口赋能具身导航纠偏. arXiv: [2608.03143](https://arxiv.org/abs/2608.03143) · ECCV 2026
 52. **PROSPECT** (2026). 流式 VLA + 潜空间预测：训练时预演未来，推理时零开销. arXiv: [2603.03739](https://arxiv.org/abs/2603.03739)

diff --git a/_posts/weekly-reports/2026-09-27-VLN-Weekly.md b/_posts/weekly-reports/2026-09-27-VLN-Weekly.md
@@ -275,3 +275,5 @@ excerpt: "R2R-CE 零样本出现 79.0% SR 的新声明（GPT-6-Astra，Codex har
 
 - **跟踪** NaviScale 数据集是否公开。
 - **暂缓**次池 VLA 量化与推理加速类工作：机制可借鉴，但均未在 VLN-CE 上验证。
+
+> **更新（2026-10-01）**：GPT-6-Astra Lights Up 已于 2026-09-25 发布 v2，本报告所引 79.0% / 76.0% 为 v1 的单次运行结果；v2 改为每档三次运行取均值，ultra 为 81.3±2.5%（SPL 71.5±1.7），medium 为 75.7±1.5%（SPL 65.6±2.1），仍只在 R2R-CE-100 上评测。详见 [VLN-Papers 的 GPT-6-Astra 条目](/VLN-Papers/#gpt-6-astra)。
